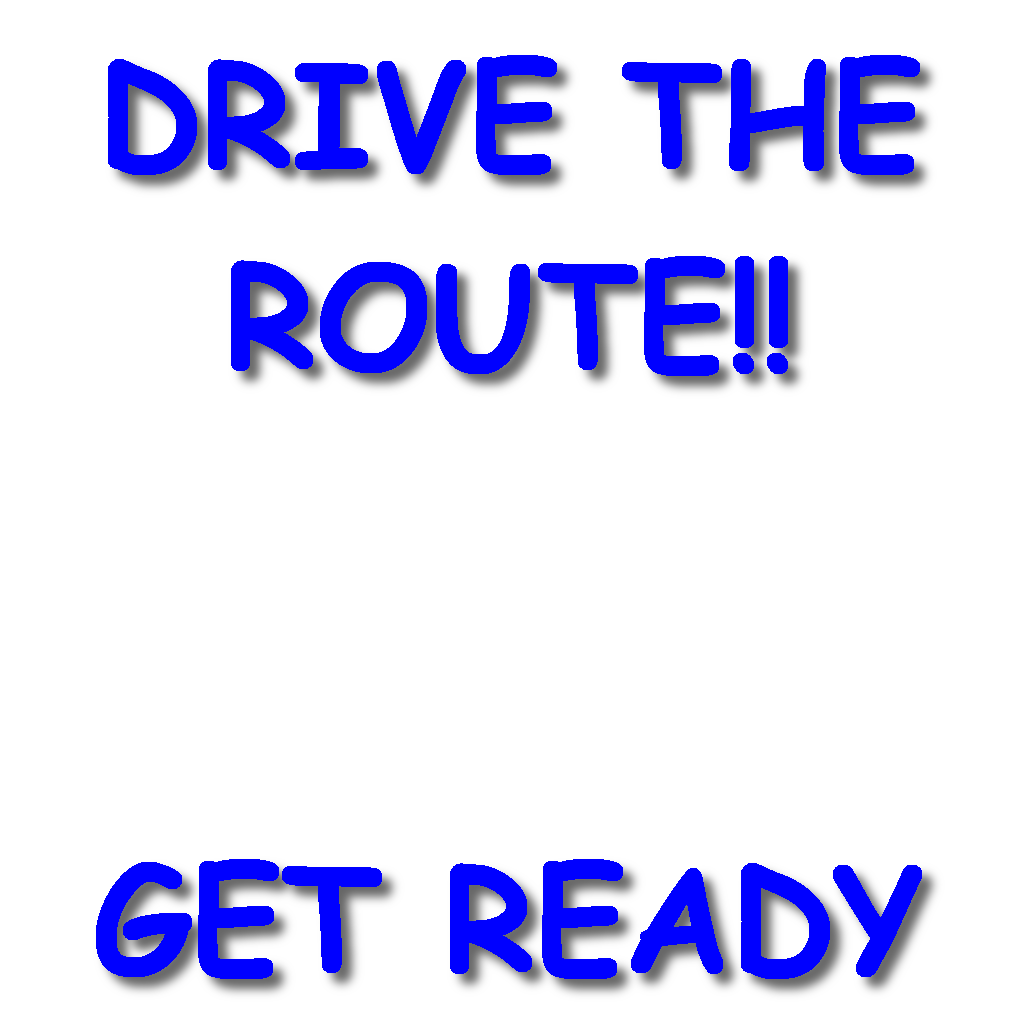
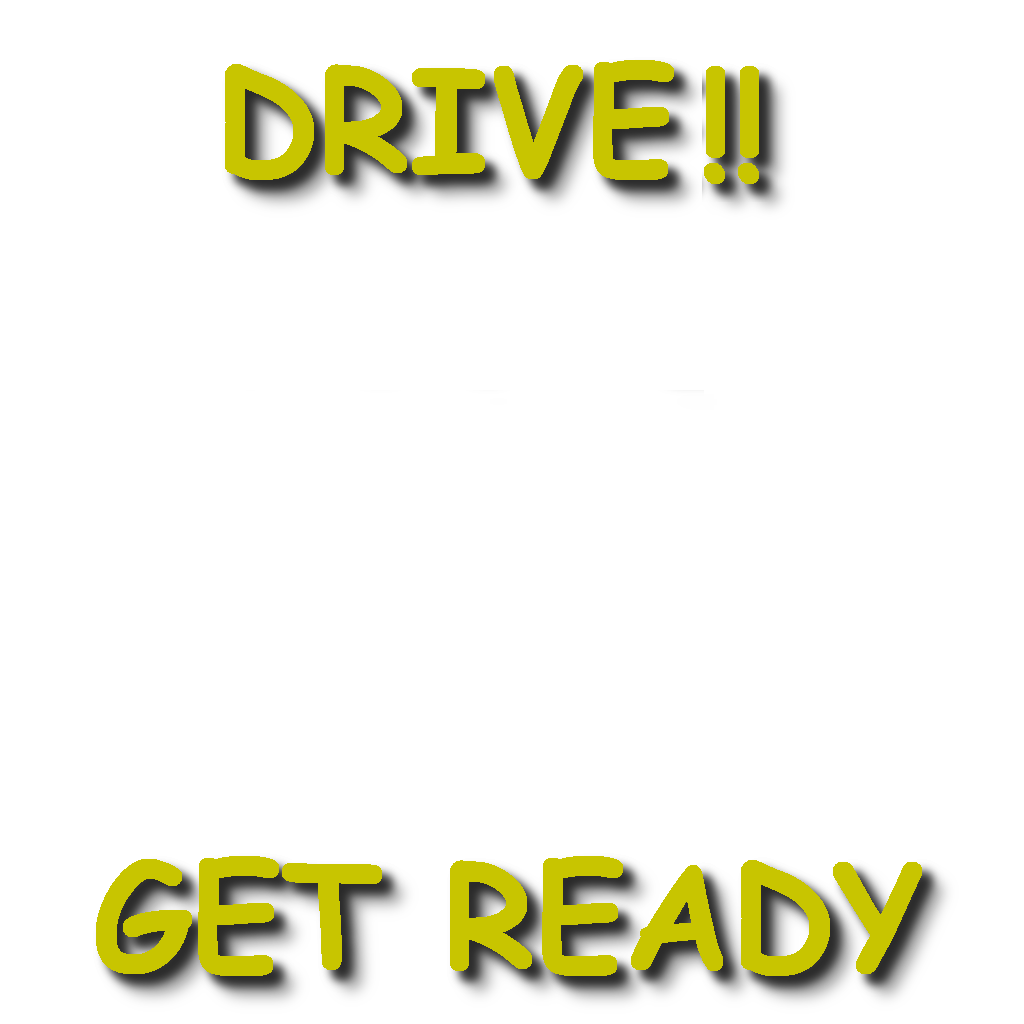
added score and plusone, tweaks

diff --git a/client/trunk/app/blinker-game/src/com/doogetha/blinkergame/BlinkerGame.java b/client/trunk/app/blinker-game/src/com/doogetha/blinkergame/BlinkerGame.java
@@ -11,6 +11,7 @@ import com.badlogic.gdx.graphics.OrthographicCamera;
 import com.badlogic.gdx.graphics.Texture;
 import com.badlogic.gdx.graphics.Texture.TextureFilter;
 import com.badlogic.gdx.graphics.Texture.TextureWrap;
+import com.badlogic.gdx.graphics.g2d.BitmapFont;
 import com.badlogic.gdx.graphics.g2d.Sprite;
 import com.badlogic.gdx.graphics.g2d.SpriteBatch;
 import com.badlogic.gdx.graphics.g2d.TextureRegion;
@@ -20,9 +21,11 @@ import com.badlogic.gdx.scenes.scene2d.InputListener;
 import com.badlogic.gdx.scenes.scene2d.Stage;
 import com.badlogic.gdx.scenes.scene2d.actions.AlphaAction;
 import com.badlogic.gdx.scenes.scene2d.actions.DelayAction;
+import com.badlogic.gdx.scenes.scene2d.actions.MoveByAction;
 import com.badlogic.gdx.scenes.scene2d.actions.SequenceAction;
 import com.badlogic.gdx.scenes.scene2d.ui.Button;
 import com.badlogic.gdx.scenes.scene2d.ui.Image;
+import com.badlogic.gdx.scenes.scene2d.ui.Label;
 import com.badlogic.gdx.scenes.scene2d.utils.TextureRegionDrawable;
 
 public class BlinkerGame implements ApplicationListener {
@@ -30,10 +33,12 @@ public class BlinkerGame implements ApplicationListener {
 	private SpriteBatch batch;
 	private Texture textureRoad, textureCar;
 	private Texture buttonLeftOff,buttonLeftOn,buttonRightOff,buttonRightOn;
-	private Texture textureGetReady, textureDrive;
+	private Texture textureGetReady, textureDrive, textureGameOver, texturePlusOne;
 	private Button buttonLeft, buttonRight;
 	private Sprite road, car;
-	private Image getready, drive;
+	private BitmapFont font;
+	private Image getready, drive, gameover, plusone;
+	private Label scoreLabel;
 	private Stage stage;
 	
 	protected static enum GameState {
@@ -48,10 +53,13 @@ public class BlinkerGame implements ApplicationListener {
 	protected final static int VIRTUAL_TILE_SIZE = 200;
 	protected final static int VIEWPORT_SIZE = VIRTUAL_TILE_SIZE / 2;
 	protected final static int BUTTON_SIZE = 30;
+	protected final static int PLUSONE_SIZE = 20;
 	protected final static int START_DELAY = 2500;
 	
 	private int direction = 0;
 	private int nextDirection = -1;
+	
+	private int score = 0;
 	
 	private List<Integer> directionHistory = new ArrayList<Integer>();
 	int historyIndex = 0;
@@ -105,6 +113,8 @@ public class BlinkerGame implements ApplicationListener {
 		textureCar = new Texture(Gdx.files.internal("data/car.png"));
 		textureGetReady = new Texture(Gdx.files.internal("data/getready.png"));
 		textureDrive = new Texture(Gdx.files.internal("data/driveroute.png"));
+		textureGameOver = new Texture(Gdx.files.internal("data/gameover.png"));
+		texturePlusOne = new Texture(Gdx.files.internal("data/plusone.png"));
 		
 		road = new Sprite(new TextureRegion(textureRoad, 0, 0, textureRoad.getWidth() * 3, textureRoad.getHeight() * 3));
 		road.setSize(3f * VIRTUAL_TILE_SIZE, 3f * VIRTUAL_TILE_SIZE);
@@ -116,8 +126,13 @@ public class BlinkerGame implements ApplicationListener {
 		car.setOrigin(car.getWidth()/2, car.getHeight()/2);
 		car.setPosition(-car.getWidth()/2, -car.getHeight()/2);
 		
-		getready = newImageActor(textureGetReady, VIEWPORT_SIZE, (camera.viewportWidth-VIEWPORT_SIZE)/2, (camera.viewportHeight-VIEWPORT_SIZE)/2 + 10);
-		drive = newImageActor(textureDrive, VIEWPORT_SIZE, (camera.viewportWidth-VIEWPORT_SIZE)/2, (camera.viewportHeight-VIEWPORT_SIZE)/2 + 10);
+		getready = newScreenImageActor(textureGetReady, VIEWPORT_SIZE);
+		drive = newScreenImageActor(textureDrive, VIEWPORT_SIZE);
+		gameover = newScreenImageActor(textureGameOver, VIEWPORT_SIZE);
+		plusone = newScreenImageActor(texturePlusOne, PLUSONE_SIZE);
+		
+		font = new BitmapFont();
+		font.setScale(0.6f);
 		
 		// -------------------
 
@@ -144,18 +159,24 @@ public class BlinkerGame implements ApplicationListener {
 		buttonLeft.addListener(new DirectionButtonListener(buttonLeft, buttonRight));
 		buttonRight.addListener(new DirectionButtonListener(buttonRight, buttonLeft));
 		
+		scoreLabel = new Label("0", new Label.LabelStyle(font, Color.YELLOW));
+		scoreLabel.setPosition(5, camera.viewportHeight - 15);
+		
 		stage.addActor(buttonLeft);
 		stage.addActor(buttonRight);
+		stage.addActor(scoreLabel);
 		stage.addActor(getready);
 		stage.addActor(drive);
+		stage.addActor(gameover);
+		stage.addActor(plusone);
 
 		resetDirectionButtons();
 	}
 	
-	protected static Image newImageActor(Texture texture, float size, float x, float y) {
+	protected Image newScreenImageActor(Texture texture, float size) {
 		Image img = new Image(new TextureRegion(texture));
 		img.setSize(size, size);
-		img.setPosition(x, y);
+		img.setPosition((camera.viewportWidth-size)/2, (camera.viewportHeight-size)/2);
 		Color c = img.getColor();
 		img.setColor(c.r, c.g, c.b, 0f); // invisible alpha
 		return img;
@@ -191,11 +212,14 @@ public class BlinkerGame implements ApplicationListener {
 		textureCar.dispose();
 		textureGetReady.dispose();
 		textureDrive.dispose();
+		textureGameOver.dispose();
+		texturePlusOne.dispose();
 		buttonLeftOff.dispose();
 		buttonLeftOn.dispose();
 		buttonRightOff.dispose();
 		buttonRightOn.dispose();
 		stage.dispose();
+		font.dispose();
 	}
 
 	protected void moveScreen(float offset) {
@@ -238,6 +262,7 @@ public class BlinkerGame implements ApplicationListener {
 					stopCarTime = System.currentTimeMillis();
 				} else {
 					// good, go on
+					goodTurn();
 					historyIndex++;
 					if (historyIndex == directionHistory.size()) {
 						// end reached
@@ -269,9 +294,18 @@ public class BlinkerGame implements ApplicationListener {
 		}
 	}
 	
+	protected void goodTurn() {
+		score++;
+		scoreLabel.setText(""+score);
+		plusone.setPosition((camera.viewportWidth-PLUSONE_SIZE)/2, (camera.viewportHeight-PLUSONE_SIZE)/2);
+		plusone.addAction(newMoveByAction(0.6f, 0f, 20f));
+		plusone.addAction(new SequenceAction(newFadeAction(0.1f, 1f), newDelayAction(0.25f, newFadeAction(0.25f, 0f))));
+	}
+	
 	protected void gameOver() {
 		gameOver = true;
 		setDirectionButtonsVisible(false);
+		gameover.addAction(newFadeAction(1f, 1f));
 	}
 	
 	protected void setDirectionButtonsVisible(boolean visible) {
@@ -311,10 +345,10 @@ public class BlinkerGame implements ApplicationListener {
 		long now = System.currentTimeMillis();
 		int appTime = (int)(now - firstRender);
 
-		float maxSpeed = 0.15f + 0.25f * Math.min(1f, directionHistory.size() / 7f);
+		float maxSpeed = 0.15f + 0.20f * Math.min(1f, directionHistory.size() / 7f);
 		float speed = maxSpeed * Math.min(1f, Math.max(0f,  appTime - START_DELAY) / 1000f);
 		if (stopCarTime > 0) {
-			speed = maxSpeed * Math.max(0f,  1000 - (now - stopCarTime)) / 1000;
+			speed = maxSpeed * Math.max(0f,  750 - (now - stopCarTime)) / 750;
 			if (speed < 0.01f) checkEnterNewState();
 		}
 		
@@ -360,6 +394,13 @@ public class BlinkerGame implements ApplicationListener {
 		fadeAction.setDuration(duration);
 		fadeAction.setAlpha(alpha);
 		return fadeAction;
+	}
+	
+	protected static MoveByAction newMoveByAction(float duration, float x, float y) {
+		MoveByAction mba = new MoveByAction();
+		mba.setDuration(duration);
+		mba.setAmount(x, y);
+		return mba;
 	}
 
 	@Override
